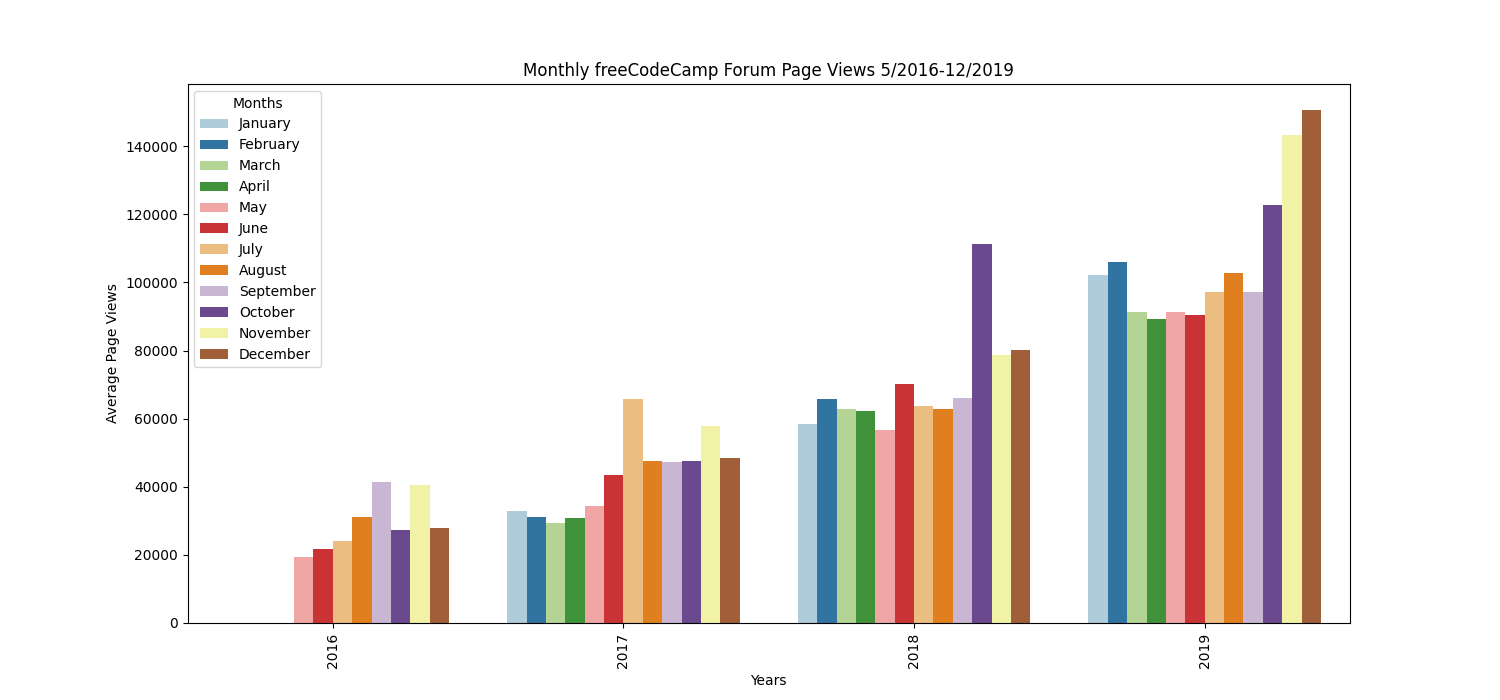
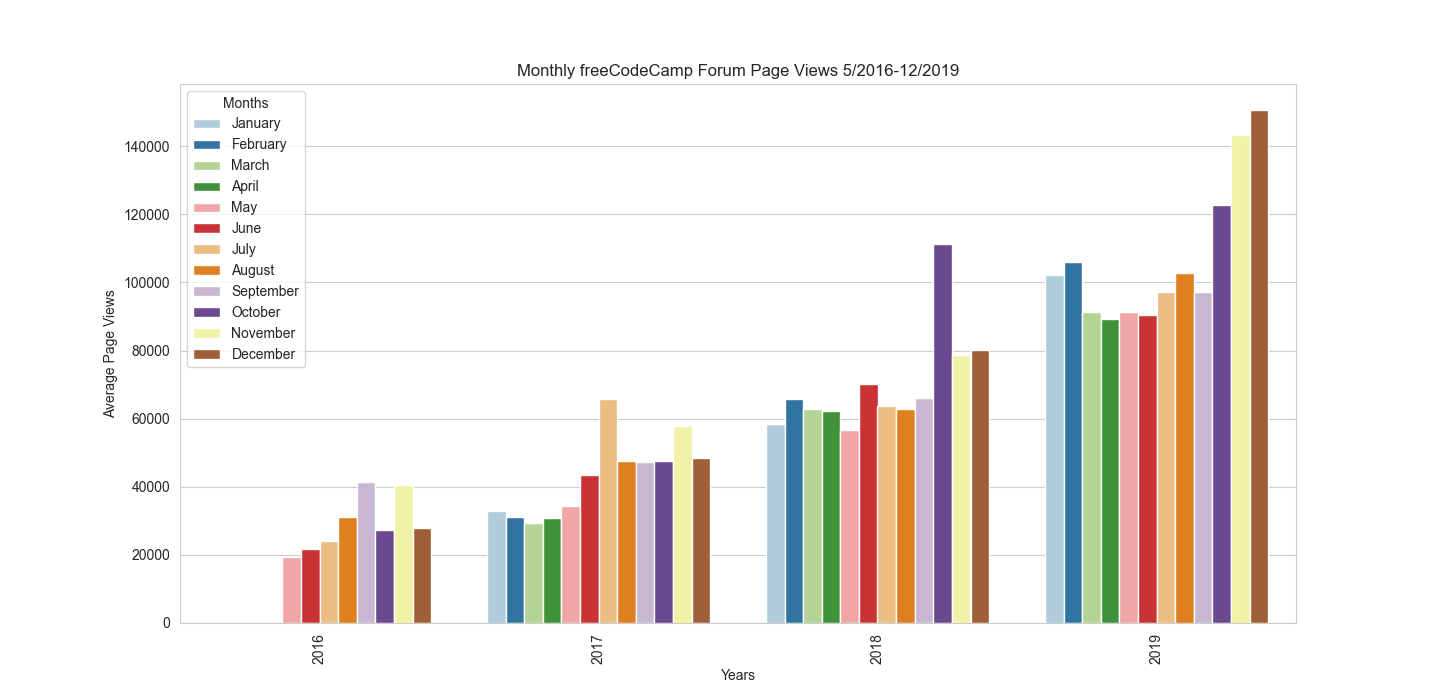
Finished box plot code.  All tests are passing now :)

diff --git a/data-analysis-with-python/page-view-time-series-visualizer/time_series_visualizer.py b/data-analysis-with-python/page-view-time-series-visualizer/time_series_visualizer.py
@@ -2,17 +2,16 @@ import matplotlib.pyplot as plt
 import pandas as pd
 import seaborn as sns
 from pandas.plotting import register_matplotlib_converters
-import numpy as np
 register_matplotlib_converters()
 
-# Import data (Make sure to parse dates. Consider setting index column to 'date'.)
+# import data (make sure to parse dates. consider setting index column to 'date'.)
 df = pd.read_csv(
     filepath_or_buffer='fcc-forum-pageviews.csv',
 )
 df['date'] = pd.to_datetime(df['date'], format='%Y-%m-%d')
 df = df.set_index('date')
 
-# Clean data
+# clean data
 # thanks to https://towardsdatascience.com/10-examples-that-will-make-you-use-pandas-query-function-more-often-a8fb3e9361cb
 low_end = df.value.quantile(0.025)
 high_end = df.value.quantile(0.975)
@@ -33,12 +32,11 @@ def draw_line_plot():
     ax.set(
         xlabel='Date',
         ylabel='Page Views',
-        title='Daily freeCodeCamp Forum Page Views 5/2016-12/2019',
+        title='Daily freeCodeCamp Forum Page Views 5/2016-12/2019'
     )
-    # shows the completed figure without saving it, good for proofreading
-    # plt.show()
 
-    # Save image and return fig (don't change this part)
+    # save image and return fig (don't change this part)
+    # plt.show()
     fig.savefig('line_plot.png')
     return fig
 
@@ -63,55 +61,111 @@ def draw_bar_plot():
 
     df_bar = df_bar.reset_index()
 
-    # add the missing months so the column test passes (not sure how else to do this)
-    missing_months = pd.DataFrame({
-        'Average Page Views': [0, 0, 0, 0],
-        'Years': [2016, 2016, 2016, 2016],
-        'Months': ['January', 'February', 'March', 'April']
-    })
-
-    # simply concatenate both dataframes
-    # https://stackoverflow.com/questions/20490274/how-to-reset-index-in-a-pandas-dataframe
-    # https://stackoverflow.com/questions/16167829/in-pandas-how-can-i-reset-index-without-adding-a-new-column
-    df_bar = pd.concat([missing_months, df_bar]).reset_index(drop=True)
-
     # plot the data
     fig, ax = plt.subplots(figsize=(15, 7))
-    ax.set_title("Monthly freeCodeCamp Forum Page Views 5/2016-12/2019")
 
     # create the chart
-    chart = sns.barplot(
+    # https://stackoverflow.com/questions/65147132/how-to-set-the-hue-order-in-seaborn-plots
+    bar_plot = sns.barplot(
         data=df_bar,
         x='Years',
         y='Average Page Views',
         hue='Months',
+        hue_order=[
+            'January',
+            'February',
+            'March',
+            'April',
+            'May',
+            'June',
+            'July',
+            'August',
+            'September',
+            'October',
+            'November',
+            'December'
+        ],
         # https://www.codecademy.com/article/seaborn-design-ii
-        palette=sns.color_palette("Paired", 12)
+        palette=sns.color_palette("Paired", 12),
     )
 
+    # sets the title
+    bar_plot.set_title("Monthly freeCodeCamp Forum Page Views 5/2016-12/2019")
+
+    # moves the legend to more less awkward location
+    # https://seaborn.pydata.org/generated/seaborn.move_legend.html
+    sns.move_legend(bar_plot, "upper left")
+
     # rotates the x-axis labels... unnecessary, but matches the example chart
-    chart = chart.set_xticklabels(chart.get_xticklabels(), rotation=90)
+    bar_plot = bar_plot.set_xticklabels(
+        bar_plot.get_xticklabels(), rotation=90
+    )
 
-    # plt.show()
-
-    # Save image and return fig (don't change this part)
+    # save image and return fig (don't change this part)
+    plt.show()
     fig.savefig('bar_plot.png')
     return fig
 
 
-# def draw_box_plot():
-#     # use seaborn for this
-#     pass
-#     # # Prepare data for box plots (this part is done!)
-#     # df_box = df.copy()
-#     # df_box.reset_index(inplace=True)
-#     # df_box['year'] = [d.year for d in df_box.date]
-#     # df_box['month'] = [d.strftime('%b') for d in df_box.date]
+def draw_box_plot():
 
-#     # # Draw box plots (using Seaborn)
+    # prepare data for box plots (this part is done!)
+    df_box = df.copy()
+    df_box.reset_index(inplace=True)
+    df_box['year'] = [d.year for d in df_box.date]
+    df_box['month'] = [d.strftime('%b') for d in df_box.date]
 
-#     # # Save image and return fig (don't change this part)
-#     # fig.savefig('box_plot.png')
-#     # return fig
-# draw_bar_plot()
-# draw_bar_plot()
+    # https://stackabuse.com/seaborn-box-plot-tutorial-and-examples/
+    fig, axes = plt.subplots(1, 2, figsize=(15, 5))
+
+    # draw box plots (using Seaborn)
+    sns.set_style('whitegrid')
+
+    # first plot
+    year_plot = sns.boxplot(
+        data=df_box,
+        x='year',
+        y='value',
+        ax=axes[0],
+        palette=sns.color_palette("Paired", 4),
+        fliersize=3  # sets the size of the diamond outliers
+    )
+    year_plot.set(
+        xlabel='Year',
+        ylabel='Page Views',
+        title='Year-wise Box Plot (Trend)'
+    )
+
+    # second plot
+    month_plot = sns.boxplot(
+        data=df_box,
+        x='month',
+        y='value',
+        order=[
+            'Jan',
+            'Feb',
+            'Mar',
+            'Apr',
+            'May',
+            'Jun',
+            'Jul',
+            'Aug',
+            'Sep',
+            'Oct',
+            'Nov',
+            'Dec'
+        ],
+        ax=axes[1],
+        palette=sns.color_palette("Paired", 12),
+        fliersize=3  # sets the size of the diamond outliers
+    )
+    month_plot.set(
+        xlabel='Month',
+        ylabel='Page Views',
+        title='Month-wise Box Plot (Seasonality)'
+    )
+
+    # save image and return fig (don't change this part)
+    # plt.show()
+    fig.savefig('box_plot.png')
+    return fig
